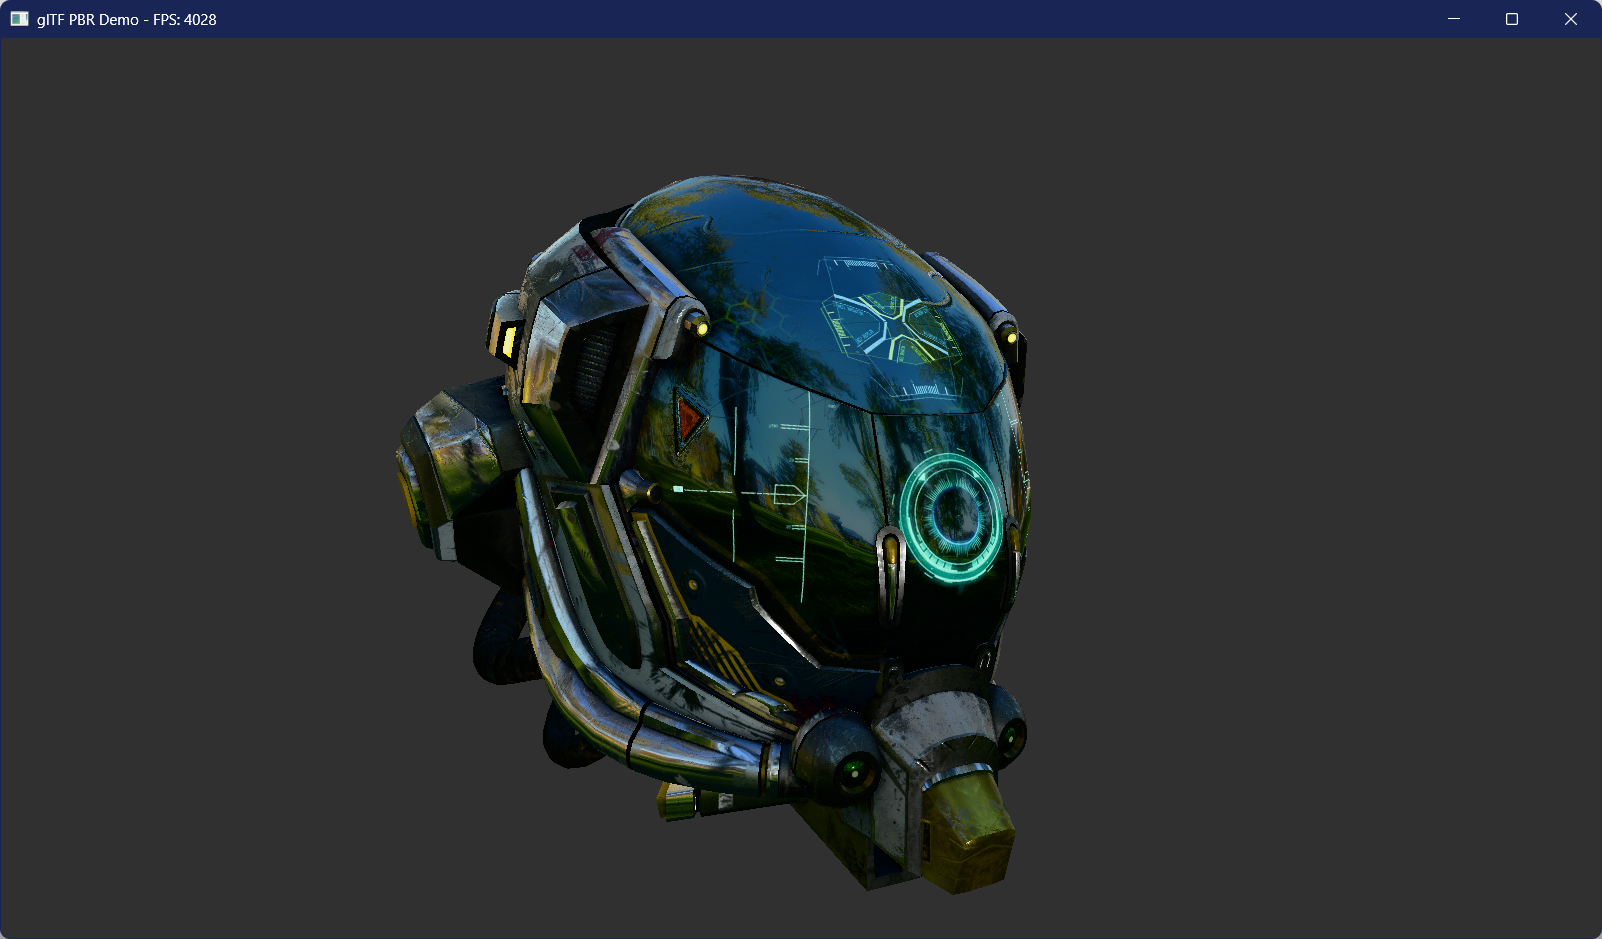
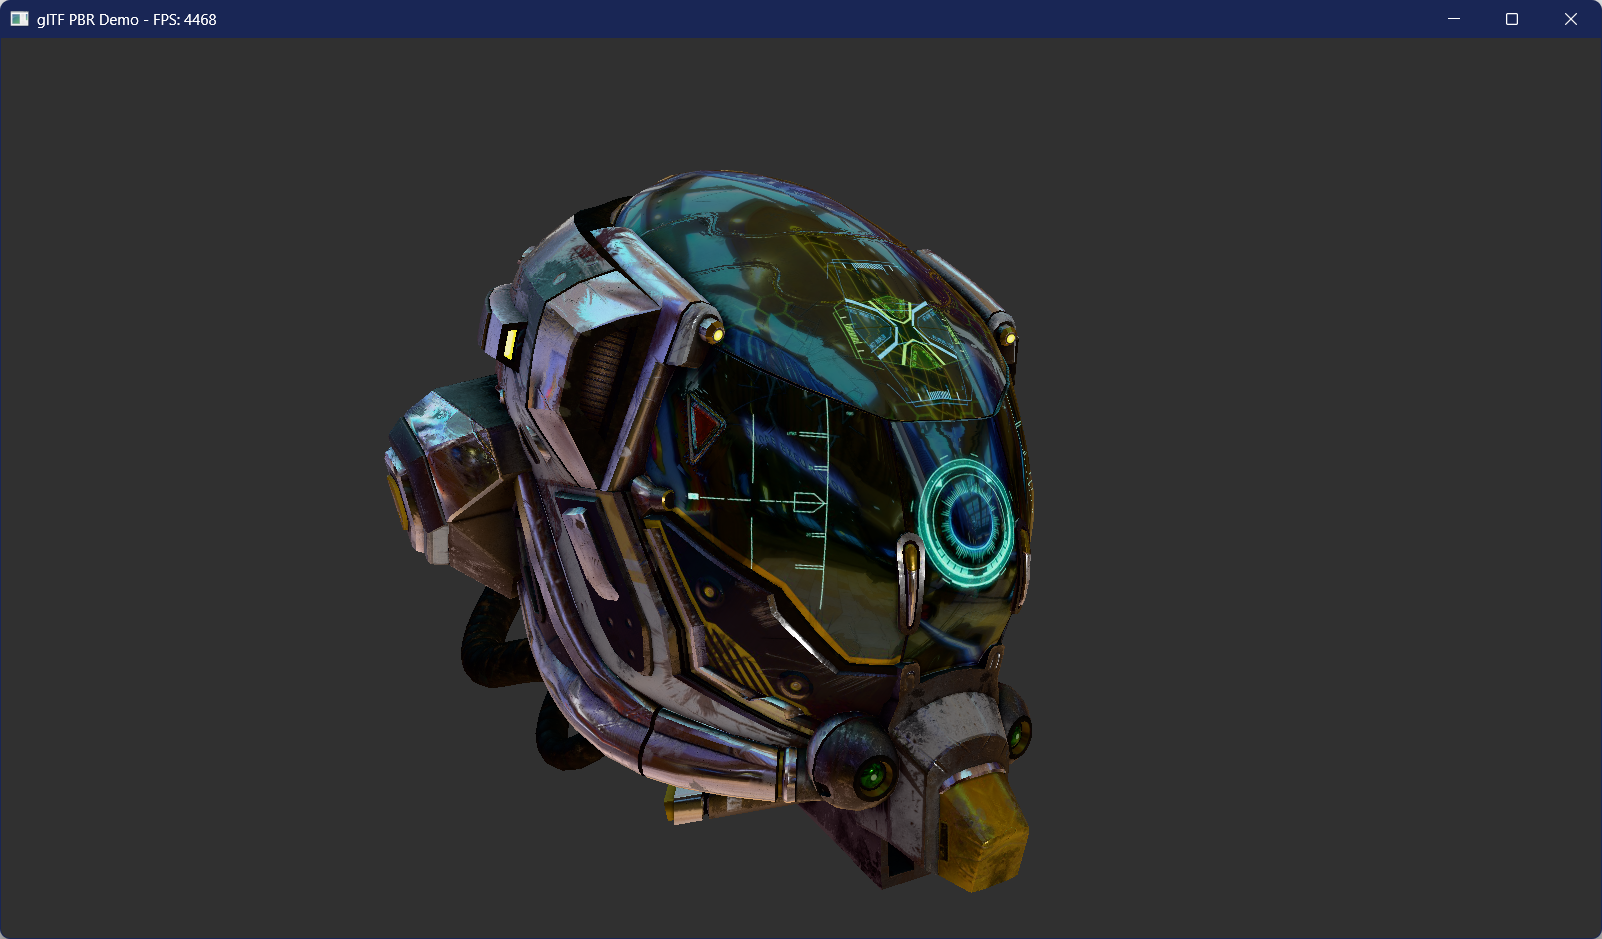
update readme

Changed region(s): [[0.2185, 0.1853, 0.6554, 0.9574]]

diff --git a/examples/gltf_viewer/web/index.html b/examples/gltf_viewer/web/index.html
@@ -162,13 +162,12 @@
             document.body.style.opacity = "1.0";
         }
 
-        // 绑定事件到 Body (确保覆盖全屏)
+
         document.body.addEventListener('dragenter', handleDragOver, false);
         document.body.addEventListener('dragover', handleDragOver, false);
         document.body.addEventListener('dragleave', handleDragLeave, false);
         document.body.addEventListener('drop', handleDrop, false);
-        
-        // 同样绑定到 Canvas，以防万一
+
         const canvas = document.getElementById('myth-canvas');
         canvas.addEventListener('dragenter', handleDragOver, false);
         canvas.addEventListener('dragover', handleDragOver, false);

diff --git a/examples/helmet_gltf.rs b/examples/helmet_gltf.rs
@@ -15,20 +15,11 @@ struct HelmetGltf {
 
 impl AppHandler for HelmetGltf {
     fn init(engine: &mut Engine, _window: &Arc<Window>) -> Self {
+        let map_path = "examples/assets/royal_esplanade_2k.hdr.jpg";
+
         let env_texture_handle = engine
             .assets
-            .load_cube_texture(
-                [
-                    "examples/assets/Park2/posx.jpg",
-                    "examples/assets/Park2/negx.jpg",
-                    "examples/assets/Park2/posy.jpg",
-                    "examples/assets/Park2/negy.jpg",
-                    "examples/assets/Park2/posz.jpg",
-                    "examples/assets/Park2/negz.jpg",
-                ],
-                ColorSpace::Srgb,
-                true,
-            )
+            .load_texture(map_path, ColorSpace::Srgb, false)
             .expect("Failed to load environment map");
 
         engine.scene_manager.create_active();

diff --git a/README.md b/README.md
@@ -31,8 +31,7 @@ Inspired by the simplicity of **Three.js** and built on the modern power of **wg
 ## 🚀 Features
 
 * **⚡ Modern Architecture**: Built on **wgpu**, fully supporting **Vulkan**, **Metal**, **DX12**, and **WebGPU**.
-* **✨ Advanced PBR**: Industry-standard Physically Based Rendering pipeline.
-    * Metalness/Roughness workflow.
+* **🖌 Advanced PBR Materials**: Physically Based Rendering with a rich set of material features:
     * **IBL** (support cubeMap & equirectangular env maps, with auto PMREM generation).
     * **Clearcoat** (car paint, varnished wood).
     * **Iridescence** (soap bubbles, oil films).
@@ -56,7 +55,7 @@ Experience the engine directly in your browser (Chrome/Edge 113+ required for We
 * **Drag & Drop** your own `.glb` / `.gltf` files to view them.
 * Inspect node hierarchy and tweak PBR material parameters in real-time.
 
-![Web Editor Preview](docs/images/inspector.png)
+![Web Editor Preview](docs/images/inspector.gif)
 
 
 ## 📦 Quick Start

diff --git a/docs/API.md b/docs/API.md
@@ -1,6 +1,6 @@
 # Myth Engine API Reference
 
-A high-performance 3D rendering engine built with Rust and wgpu, inspired by Three.js.
+A high-performance 3D rendering engine built with Rust and wgpu.
 
 ## Quick Start
 
@@ -672,6 +672,5 @@ Check the `examples/` directory for complete working examples:
 Run examples with:
 
 ```bash
-cargo run --example rotating_cube
-cargo run --example gltf_viewer
+cargo run --example gltf_viewer --release
 ```
